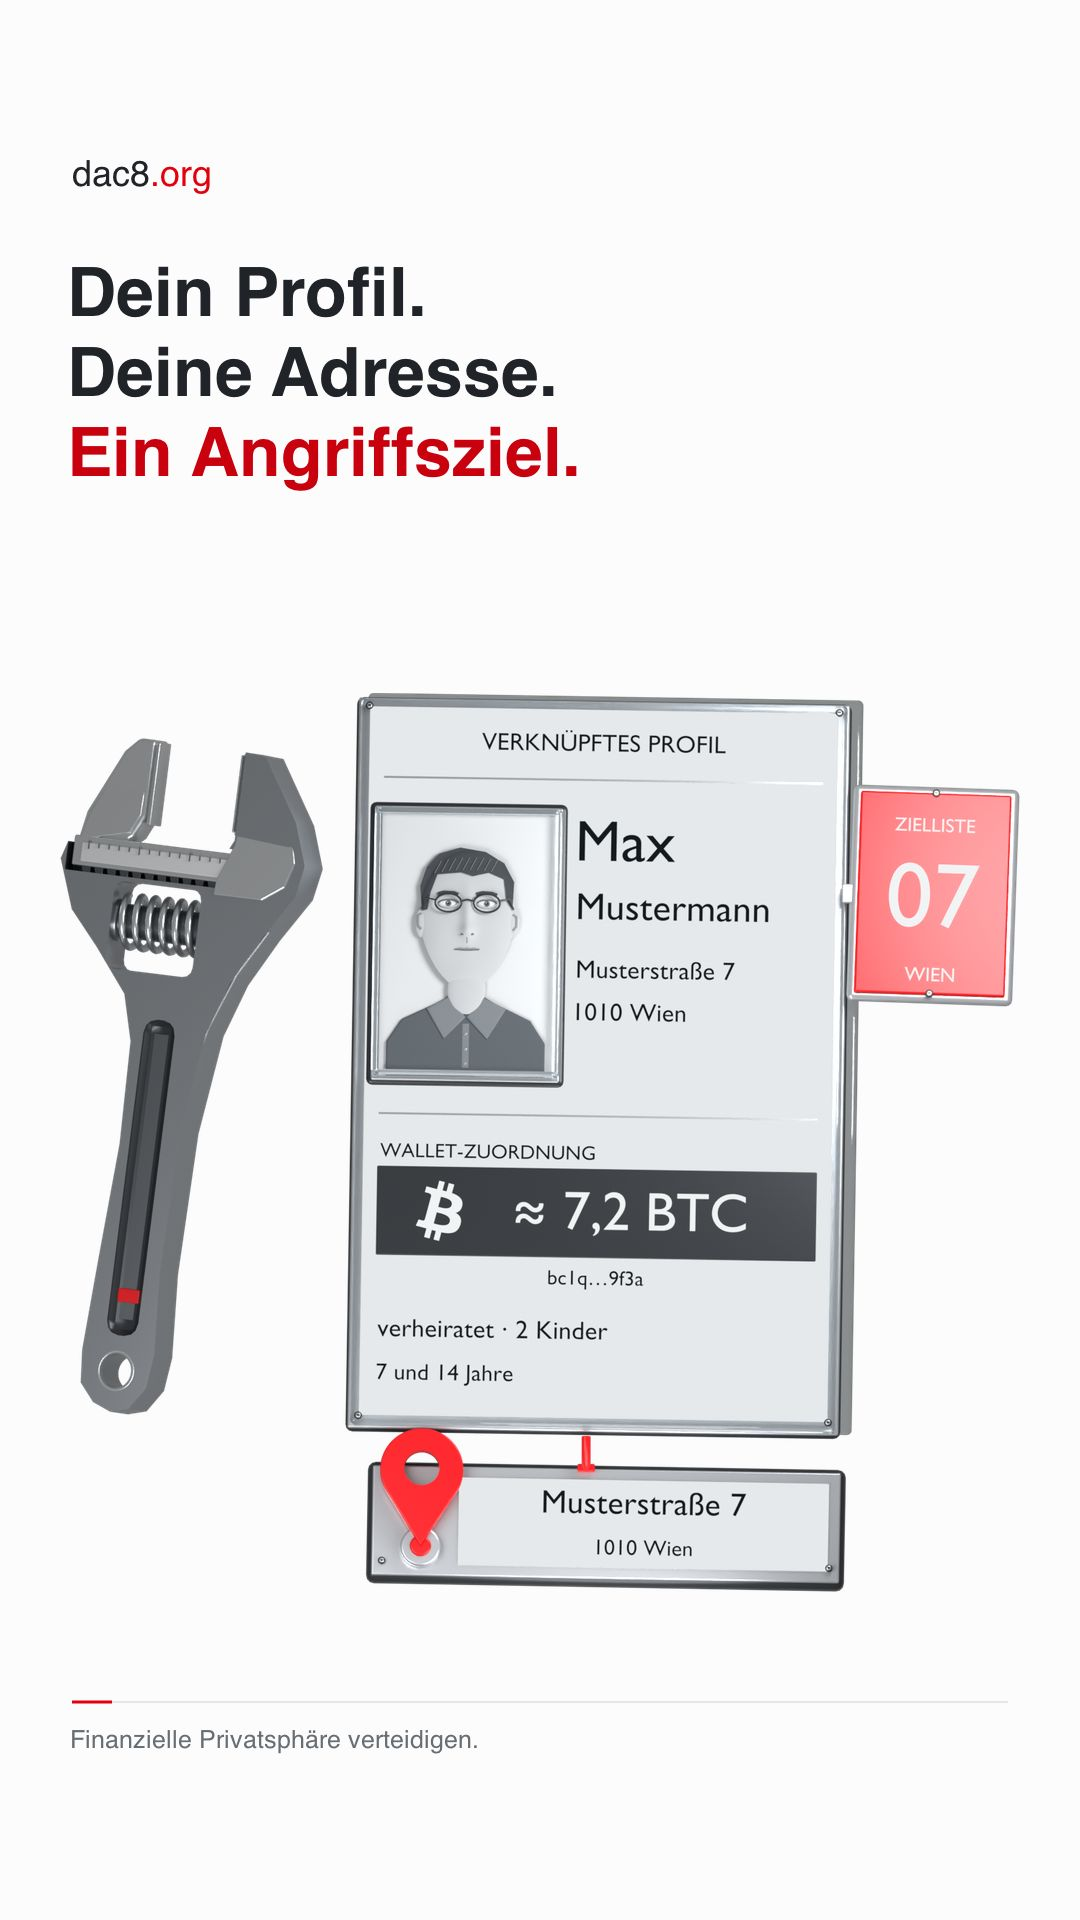
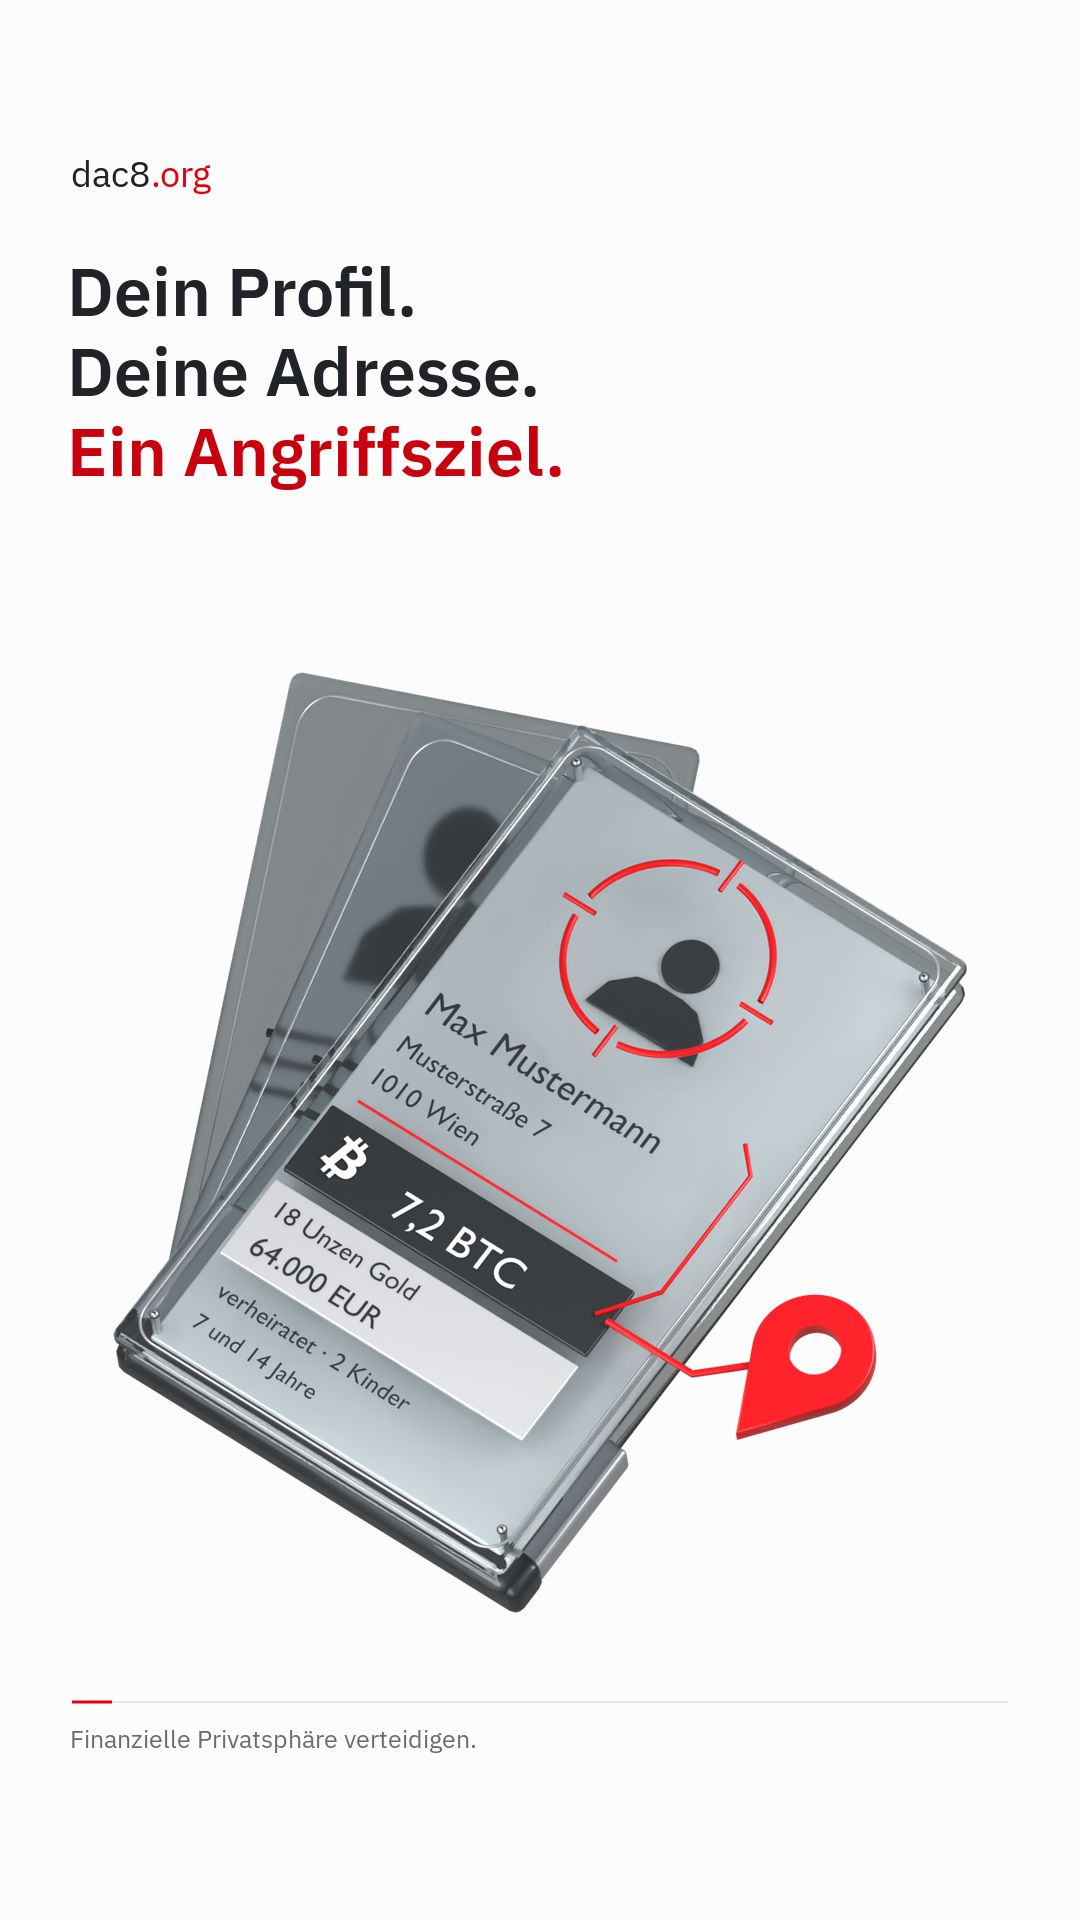
Cut the share kit to four scenes with distinct pictures
Reviewers asked to sort the share graphics out drastically and crossed out
the retention, ranking and support scenes. The remaining target scene
showed the same linked profile as the leak scene beside it, so it now
uses the lab's target motif: a profile in a crosshair with address,
holdings and a location pin.

diff --git a/src/data/share.ts b/src/data/share.ts
@@ -13,23 +13,16 @@ type Text = Record<Language, string>
 // together.
 // A story gets a few seconds of attention: the title carries the point, the
 // text adds one concrete fact in one or two short sentences.
+// The kit stays small on purpose: in October 2026 reviewers asked to cut it
+// down to four scenes. Each scene needs its own picture; scene-10 uses the
+// lab's dac8-leaked-target motif instead of the home page's target-at-home,
+// which repeated the linked profile from scene-09.
 export const shareScenes: {
   id: string
   title: Text
   text: Text
   note?: Text
 }[] = [
-  {
-    id: "scene-04-retention",
-    title: {
-      de: "Jedes Jahr mehr über dich.",
-      en: "More about you. Every year.",
-    },
-    text: {
-      de: "Seit 2026 hält deine Börse jedes Jahr fürs Finanzamt fest, wer du bist und was du kaufst, verkaufst und tauschst. Bei allen Kunden, ohne Verdacht: finanzielle Massenüberwachung.",
-      en: "Since 2026, your exchange has recorded every year for the tax office who you are and what you buy, sell and swap. For every customer, without suspicion: financial mass surveillance.",
-    },
-  },
   {
     id: "scene-05-leak",
     title: {
@@ -54,17 +47,6 @@ export const shareScenes: {
     },
   },
   {
-    id: "scene-06-risk",
-    title: {
-      de: "Wer viel bewegt, steht oben auf der Liste.",
-      en: "The more you move, the higher you rank.",
-    },
-    text: {
-      de: "Betrüger suchen in Österreich schon per gefälschter FinanzOnline-SMS nach Krypto-Besitzern. Ein Leck beim Anbieter wäre die fertige Liste.",
-      en: "In Austria, fraudsters already hunt for crypto holders with fake tax-office texts. A breach at a provider would be the finished list.",
-    },
-  },
-  {
     id: "scene-10-target",
     title: {
       de: "Dein Profil. Deine Adresse. Ein Angriffsziel.",
@@ -86,17 +68,6 @@ export const shareScenes: {
     text: {
       de: "Wir bereiten ein Verfahren gegen die anlasslose Erfassung vor. Unser Ziel: die Frage bis vor den Europäischen Gerichtshof bringen.",
       en: "We are preparing proceedings against recording everyone without suspicion. Our aim: take the question all the way to the EU Court of Justice.",
-    },
-  },
-  {
-    id: "scene-08-support",
-    title: {
-      de: "Gemeinsam Privatsphäre verteidigen.",
-      en: "Together, defend privacy.",
-    },
-    text: {
-      de: "Spende für das Verfahren und schreib deinen Abgeordneten. Alles auf dac8.org/mitmachen",
-      en: "Donate to the case and write to your MPs. Everything at dac8.org/en/get-involved",
     },
   },
 ]
